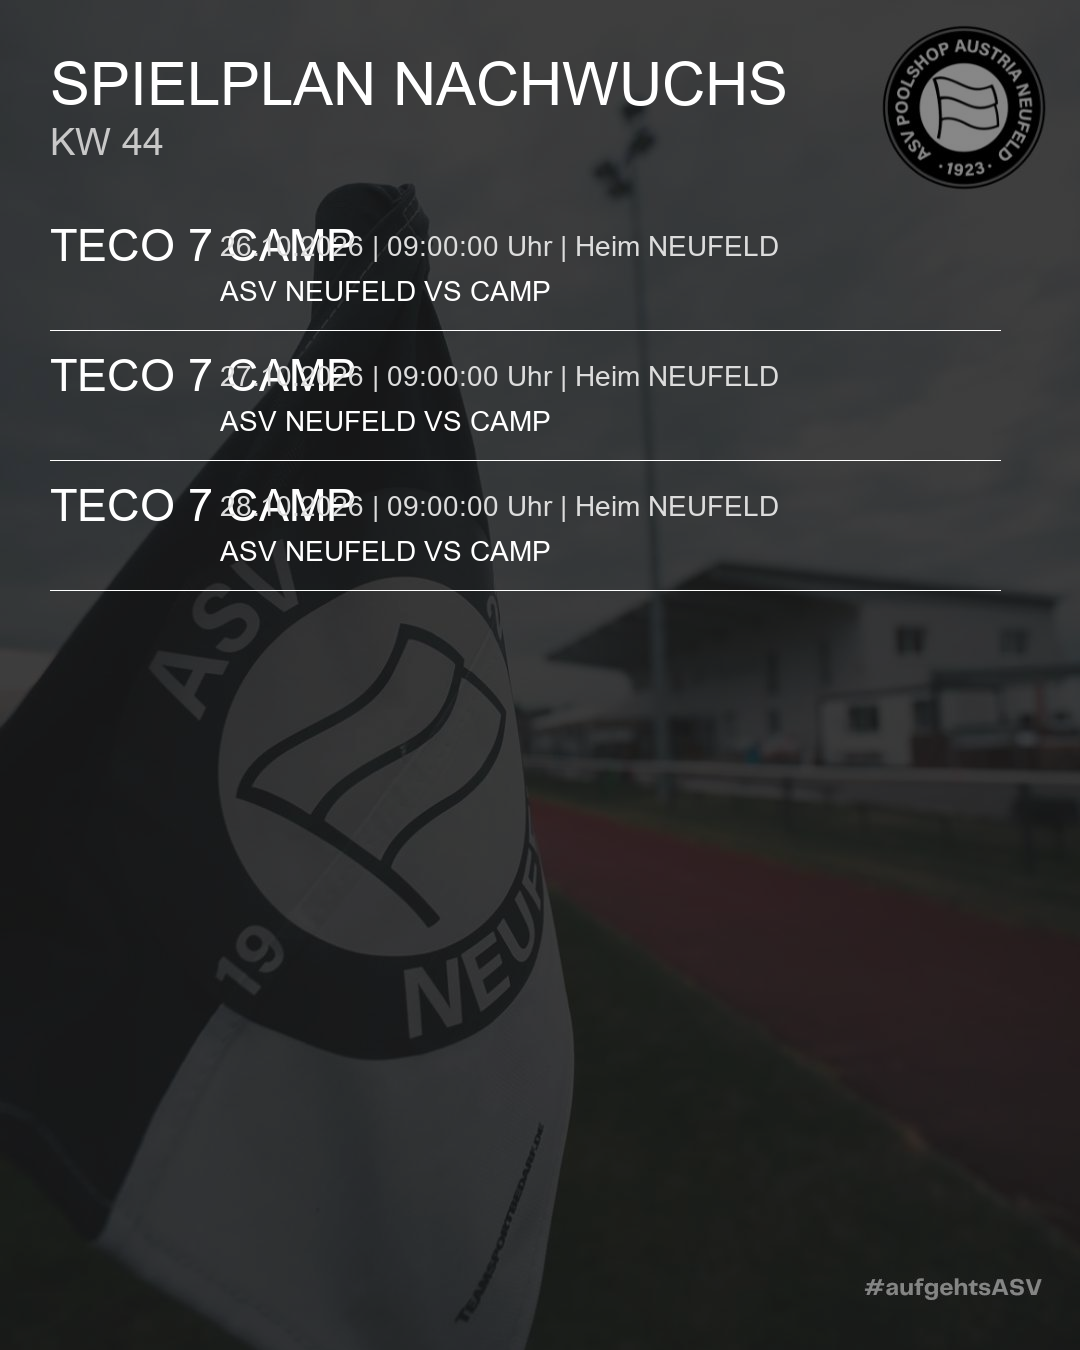
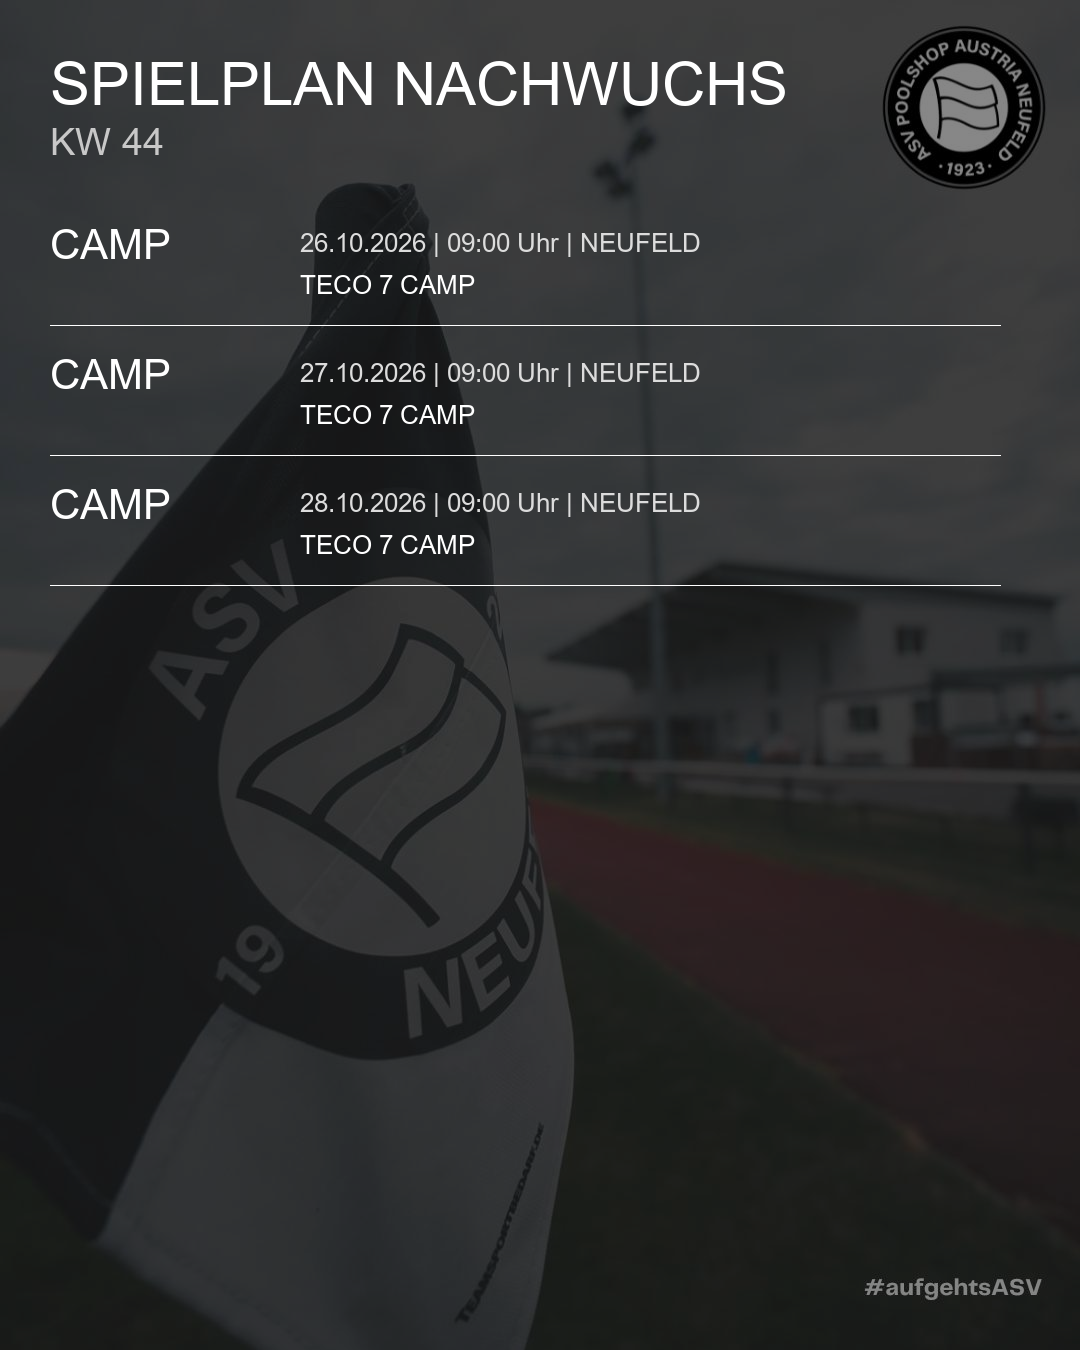
Sprint 2.6 - Poster optisch verbessern

Changed region(s): [[0.0306, 0.1556, 0.7028, 0.4356], [0.0306, 0.3422, 0.1528, 0.4044], [0.0306, 0.2489, 0.1528, 0.3111]]

diff --git a/modules/poster_generator.py b/modules/poster_generator.py
@@ -7,8 +7,6 @@ Erstellt Wochenposter aus der Excel-Datei.
 """
 
 import os
-from datetime import datetime, timedelta
-
 import pandas as pd
 from PIL import Image, ImageDraw, ImageFont
 
@@ -27,17 +25,13 @@ class PosterGenerator:
         self.max_spiele = 7
 
     def create(self, excel_datei, kw=None):
-        """
-        Erstellt Poster.
-        kw leer = alle Wochen
-        kw Zahl = nur diese Kalenderwoche
-        """
 
         if not excel_datei:
             print("Keine Excel-Datei ausgewählt.")
             return False
 
         df = pd.read_excel(excel_datei, sheet_name="ICS2")
+
         df["DATUM"] = pd.to_datetime(df["DATUM"], errors="coerce")
         df = df.dropna(subset=["DATUM"])
 
@@ -53,8 +47,8 @@ class PosterGenerator:
             wochen = sorted(df["KW"].dropna().unique())
 
         font_title = ImageFont.truetype("arial.ttf", 60)
-        font_big = ImageFont.truetype("arial.ttf", 45)
-        font_small = ImageFont.truetype("arial.ttf", 28)
+        font_big = ImageFont.truetype("arial.ttf", 42)
+        font_small = ImageFont.truetype("arial.ttf", 26)
         font_kw = ImageFont.truetype("arial.ttf", 38)
 
         for aktuelle_kw in wochen:
@@ -63,11 +57,7 @@ class PosterGenerator:
             if df_woche.empty:
                 continue
 
-            folder = os.path.join(
-                self.output_folder,
-                str(jahr),
-                f"KW{aktuelle_kw}"
-            )
+            folder = os.path.join(self.output_folder, str(jahr), f"KW{aktuelle_kw}")
             os.makedirs(folder, exist_ok=True)
 
             count = 0
@@ -75,7 +65,6 @@ class PosterGenerator:
 
             img = self.neues_bild()
             draw = ImageDraw.Draw(img)
-
             self.header(draw, aktuelle_kw)
 
             y = self.y_start
@@ -92,32 +81,54 @@ class PosterGenerator:
 
                     img = self.neues_bild()
                     draw = ImageDraw.Draw(img)
-
                     self.header(draw, aktuelle_kw)
+
                     y = self.y_start
 
-                liga = str(row.get("LIGA", ""))
-                gegner = str(row.get("GEGNER", ""))
+                liga = str(row.get("LIGA", "")).strip()
+                art = str(row.get("ART", "Spiel")).strip().lower()
+                gegner = str(row.get("GEGNER", "")).strip()
                 datum = row["DATUM"].strftime("%d.%m.%Y")
-                zeit = str(row.get("STARTZEIT", ""))
-                ort = str(row.get("ORT", ""))
+                zeit = self.format_zeit(row.get("STARTZEIT", ""))
+                ort = str(row.get("ORT", "")).strip()
                 typ = str(row.get("TYP", "")).strip().lower()
 
-                if typ == "heim":
-                    label = "Heim"
-                    spiel = f"ASV Neufeld vs {gegner}"
+                if art == "camp":
+                    links = "CAMP"
+                    info = f"{datum} | {zeit} Uhr | {ort}"
+                    zeile2 = liga.upper()
+
+                elif art in ["freundschaft", "freundschaftsspiel", "fs"]:
+                    links = liga
+                    info = f"{datum} | {zeit} Uhr | Freundschaft"
+                    if typ == "heim":
+                        zeile2 = f"ASV NEUFELD VS {gegner}".upper()
+                    else:
+                        zeile2 = f"{gegner} VS ASV NEUFELD".upper()
+
                 else:
-                    label = "Auswärts"
-                    spiel = f"{gegner} vs ASV Neufeld"
+                    links = liga
 
-                draw.text((50, y), liga, font=font_big, fill="white")
+                    if typ == "heim":
+                        label = "Heim"
+                        zeile2 = f"ASV NEUFELD VS {gegner}".upper()
+                    else:
+                        label = "Auswärts"
+                        zeile2 = f"{gegner} VS ASV NEUFELD".upper()
 
-                text = f"{datum} | {zeit} Uhr | {label} {ort}"
-                draw.text((220, y + 10), text, font=font_small, fill=(220, 220, 220))
+                    info = f"{datum} | {zeit} Uhr | {label} {ort}"
 
-                draw.text((220, y + 55), spiel.upper(), font=font_small, fill="white")
+                # Linke Spalte
+                draw.text((50, y), links, font=font_big, fill="white")
 
-                draw.line((50, y + 110, 1000, y + 110), fill=(255, 255, 255, 60), width=1)
+                # Infozeile bewusst weiter rechts, damit lange LIGA/CAMP nicht überlappt
+                draw.text((300, y + 8), info, font=font_small, fill=(220, 220, 220))
+
+                # Zweite Zeile
+                draw.text((300, y + 50), zeile2, font=font_small, fill="white")
+
+                # Trennlinie
+                draw.line((50, y + 105, 1000, y + 105), fill=(255, 255, 255, 60), width=1)
 
                 y += self.block_height
                 count += 1
@@ -128,6 +139,20 @@ class PosterGenerator:
 
         print("Poster erfolgreich erstellt.")
         return True
+
+    def format_zeit(self, wert):
+        """Zeit aus Excel schön formatieren: 09:00 statt 09:00:00"""
+
+        if pd.isna(wert):
+            return ""
+
+        try:
+            return pd.to_datetime(str(wert)).strftime("%H:%M")
+        except Exception:
+            text = str(wert)
+            if len(text) >= 5:
+                return text[:5]
+            return text
 
     def neues_bild(self):
         img = Image.open(self.background_path).convert("RGBA")